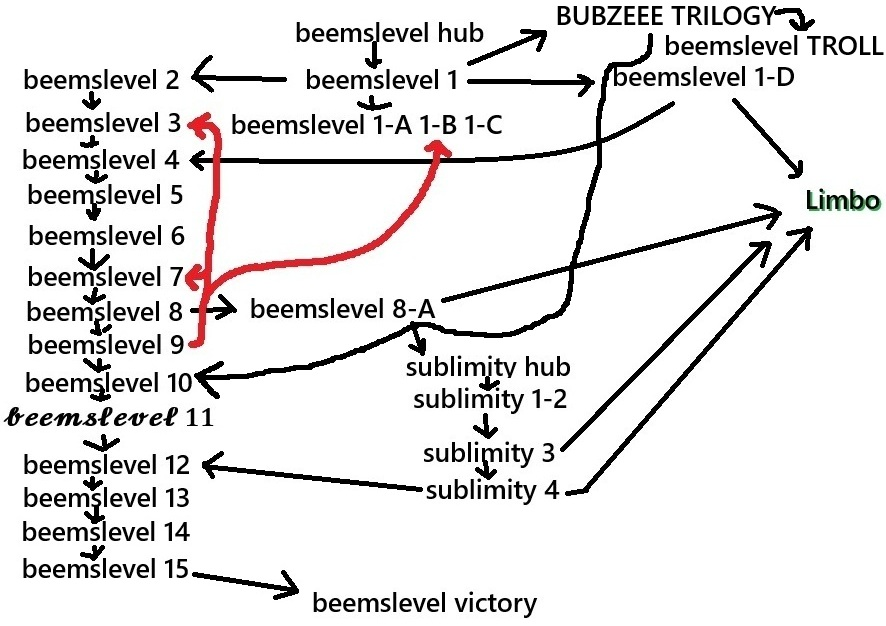
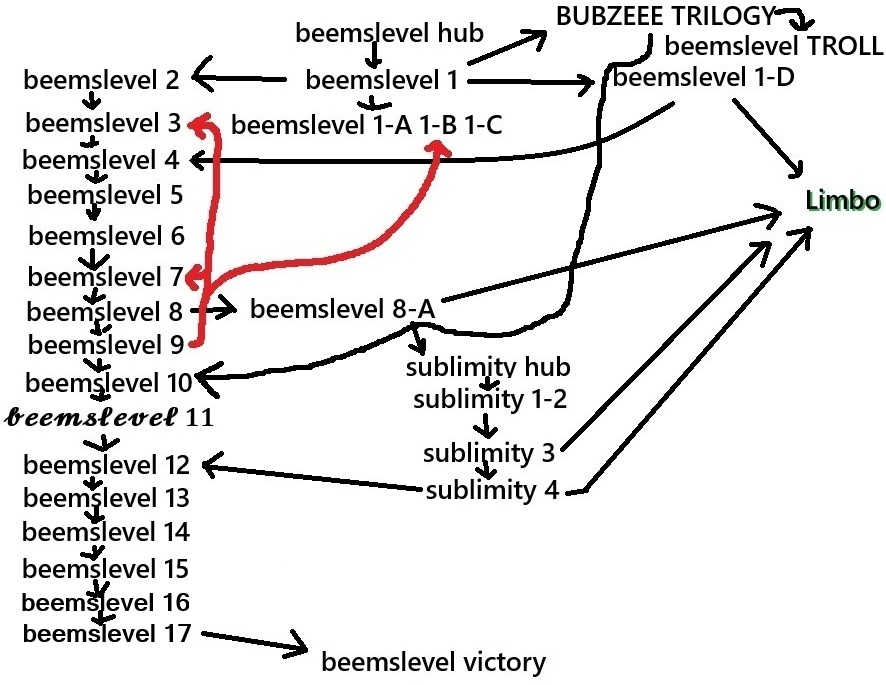
2 new levels and fixes

Changed region(s): [[0.0, 0.0, 1.0, 1.0]]

diff --git a/beemsrooms/Assets/beemslevel16.html b/beemsrooms/Assets/beemslevel16.html
@@ -3,12 +3,23 @@
 <head>
   <meta charset="UTF-8" />
   <meta name="viewport" content="width=device-width, initial-scale=1.0" />
-  <title>Shadow Switch</title>
+  <title>Beemslevel 16</title>
+  <link rel="icon" href="stonebrick.png">
   <style>
+    html {
+      background-image: url('stonebrick.png');
+      color: white;
+      font-family: "comic sans ms", cursive, sans-serif;
+    }
     canvas {
-      background: #222;
+      background-size: cover; /* Ensures the image covers the entire screen */
+      background-position: center; /* Centers the image */
+      background-repeat: no-repeat; /* Prevents the image from repeating */
+      background-image: url('catexplode.png'); /* Replace with your image path */
       display: block;
       margin: 0 auto;
+      box-shadow: 0px 0px 20px rgba(0, 0, 0, 1); /* Add shadow */
+      border-radius: 10px; /* Optional: Add rounded corners */
     }
     body {
       margin: 0;
@@ -17,33 +28,39 @@
   </style>
 </head>
 <body>
+  <button id="refreshButton" onclick="refresh()">Refresh</button>
+  <div>press spacebar for something cool idk</div>
+  <div>W,A,D to move</div>
+  <div>go to the top left of the screen to win</div>
+  <div></div>tip: switching characters makes the other character stay in the end</div>
 <canvas id="gameCanvas" width="800" height="600"></canvas>
 <script>
 const canvas = document.getElementById("gameCanvas");
 const ctx = canvas.getContext("2d");
 
 const keys = {};
-window.addEventListener("keydown", e => keys[e.key] = true);
-window.addEventListener("keyup", e => keys[e.key] = false);
+window.addEventListener("keydown", e => keys[e.key.toLowerCase()] = true);
+window.addEventListener("keyup", e => keys[e.key.toLowerCase()] = false);
 
 const gravity = 0.5;
-const groundY = 550;
+const groundY = 600;
 let activeWorld = "light"; // 'light' or 'shadow'
 
 class Player {
-  constructor(x, y, color) {
+  constructor(x, y, imageSrc) {
     this.x = x;
     this.y = y;
     this.width = 40;
     this.height = 40;
-    this.color = color;
+    this.image = new Image();
+    this.image.src = imageSrc; // Path to the player's image
     this.vx = 0;
     this.vy = 0;
     this.onGround = false;
   }
 
   update() {
-    // Movement
+    // Movement logic (same as before)
     if (keys["a"] || keys["ArrowLeft"]) this.vx = -5;
     else if (keys["d"] || keys["ArrowRight"]) this.vx = 5;
     else this.vx = 0;
@@ -66,11 +83,14 @@ class Player {
   }
 
   draw() {
-    ctx.fillStyle = this.color;
-    ctx.fillRect(this.x, this.y, this.width, this.height);
+    // Draw the image instead of a rectangle
+    ctx.drawImage(this.image, this.x, this.y, this.width, this.height);
   }
 }
+function refresh() {
+  location.reload(); // Refresh the page
 
+}
 class Platform {
   constructor(x, y, width, height, world) {
     this.x = x;
@@ -82,11 +102,24 @@ class Platform {
 
   draw() {
     if (this.world === activeWorld) {
-      ctx.fillStyle = this.world === 'light' ? '#ffff66' : '#6666ff';
-      ctx.fillRect(this.x, this.y, this.width, this.height);
-    }
-  }
+        // Set shadow properties
+        ctx.shadowColor = this.world === "light" ? "rgba(255, 255, 102, 0.5)" : "rgba(102, 102, 255, 0.5)";
+        ctx.shadowBlur = 15;
+        ctx.shadowOffsetX = 5;
+        ctx.shadowOffsetY = 5;
 
+        // Draw the platform
+        ctx.fillStyle = this.world === "light" ? "#ffff66" : "#6666ff";
+        ctx.fillRect(this.x, this.y, this.width, this.height);
+
+        // Reset shadow properties
+        ctx.shadowColor = "transparent";
+        ctx.shadowBlur = 0;
+        ctx.shadowOffsetX = 0;
+        ctx.shadowOffsetY = 0;
+    }
+}
+  
   checkCollision(player) {
     if (this.world !== activeWorld) return;
 
@@ -105,14 +138,14 @@ class Platform {
   }
 }
 
-const lightPlayer = new Player(100, 100, "#ffff66");
-const shadowPlayer = new Player(100, 100, "#6666ff");
+const player1 = new Player(0, 600, "beemscat.png"); // Replace with your image path
+const player2 = new Player(0, 600, "stupidcat.png"); // Replace with your image path
 
 const platforms = [];
 
-for (let i = 0; i < 20; i++) {
+for (let i = 0; i < 35; i++) {
   const x = Math.random() * 700 + 50;
-  const y = Math.random() * 400 + 100;
+  const y = Math.random() * 500 + 50;
   const width = Math.random() * 100 + 50;
   const height = 20;
   const world = i % 2 === 0 ? 'light' : 'shadow';
@@ -125,10 +158,10 @@ function gameLoop() {
   // Switch world
   if (keys[" "]) {
     activeWorld = activeWorld === "light" ? "shadow" : "light";
-    keys[" "] = false; // prevent constant flipping
+    keys[" "] = false; // Prevent constant flipping
   }
 
-  const currentPlayer = activeWorld === "light" ? lightPlayer : shadowPlayer;
+  const currentPlayer = activeWorld === "light" ? player1 : player2;
   currentPlayer.update();
 
   for (let plat of platforms) {
@@ -136,8 +169,16 @@ function gameLoop() {
     plat.draw();
   }
 
-  lightPlayer.draw();
-  shadowPlayer.draw();
+  // Draw only the active player
+  currentPlayer.draw();
+
+  // Check if both players are in the top-left corner
+  if (player1.x < 0 && player1.y < 0 && player2.x < 0 && player2.y < 0) {
+    alert("Start spamming the up arrow key");
+    player1.y = 200;
+    player2.y = 200;
+    window.location.href = "beemslevel17.html"; // Teleport to the next level
+  }
 
   requestAnimationFrame(gameLoop);
 }

diff --git a/beemsrooms/Assets/beemslevel17.html b/beemsrooms/Assets/beemslevel17.html
@@ -1,0 +1,153 @@
+<!DOCTYPE html>
+<html lang="en">
+<head>
+    <meta charset="UTF-8">
+    <meta name="viewport" content="width=device-width, initial-scale=1.0">
+    <title>Beemslevel 17</title>
+    <style>
+        body {
+            margin: 0;
+            overflow: hidden;
+        }
+        canvas {
+            background: black;
+            background-image: url('coolbackground.jpg'); /* Replace with your image path */
+            background-size: cover;
+        }
+        #gameOver {
+            position: absolute;
+            top: 50%;
+            left: 50%;
+            transform: translate(-50%, -50%);
+            color: white;
+            font-size: 2rem;
+            display: none;
+        }
+    </style>
+</head>
+<body>
+    <canvas id="gameCanvas"></canvas>
+    <div id="gameOver">Game Over! Refresh to try again.</div>
+    <script>
+        let lastTime = 0;
+        const fps = 60;
+        const interval = 1000 / fps;
+        const canvas = document.getElementById('gameCanvas');
+        const ctx = canvas.getContext('2d');
+        canvas.width = window.innerWidth;
+        canvas.height = window.innerHeight;
+        const player = { x: 50, y: canvas.height / 2, size: 10, speed: 0, gravity: 1.2, lift: -2 };
+        const obstacles = [];
+        const obstacleWidth = 20;
+        const gapHeight = 100;
+        let gameOver = false;
+        let isHoldingUp = false;
+    
+        let timer = 15;
+        let timerInterval;
+    
+        function createObstacle() {
+            const gapY = Math.random() * (canvas.height - gapHeight);
+            obstacles.push({ x: canvas.width, gapY });
+        }
+    
+        function updateObstacles() {
+            for (let i = obstacles.length - 1; i >= 0; i--) {
+                obstacles[i].x -= 15;
+                if (obstacles[i].x + obstacleWidth < 0) {
+                    obstacles.splice(i, 1);
+                }
+            }
+        }
+    
+        function drawObstacles() {
+            ctx.fillStyle = 'red';
+            for (const obs of obstacles) {
+                ctx.fillRect(obs.x, 0, obstacleWidth, obs.gapY);
+                ctx.fillRect(obs.x, obs.gapY + gapHeight, obstacleWidth, canvas.height - obs.gapY - gapHeight);
+            }
+        }
+    
+        function checkCollision() {
+            for (const obs of obstacles) {
+                if (
+                    player.x < obs.x + obstacleWidth &&
+                    player.x + player.size > obs.x &&
+                    (player.y < obs.gapY || player.y + player.size > obs.gapY + gapHeight)
+                ) {
+                    return true;
+                }
+            }
+            return player.y < 0 || player.y + player.size > canvas.height;
+        }
+    
+        function drawPlayer() {
+            ctx.fillStyle = 'white';
+            ctx.fillRect(player.x, player.y, player.size, player.size);
+        }
+    
+        // Draw the timer at the top center
+        function drawTimer() {
+            ctx.fillStyle = 'white';
+            ctx.font = '20px Arial';
+            ctx.textAlign = 'center';
+            ctx.fillText(`Time Left: ${timer}`, canvas.width / 2, 30);
+        }
+    
+        // Start the timer countdown
+        function startTimer() {
+            timerInterval = setInterval(() => {
+                if (timer > 0) {
+                    timer--;
+                } else {
+                    clearInterval(timerInterval);
+                    window.location.href = "beemslevelVictory.html"; // Teleport to level 18
+                }
+            }, 1000);
+        }
+    
+        function gameLoop(currentTime) {
+            if (currentTime - lastTime >= interval) {
+                lastTime = currentTime;
+                if (gameOver) return;
+    
+                ctx.clearRect(0, 0, canvas.width, canvas.height);
+    
+                // Apply gravity and update player position
+                if (isHoldingUp) {
+                    player.speed += player.lift; // Accelerate upwards while holding the key
+                } else {
+                    player.speed += player.gravity; // Apply gravity when not holding the key
+                }
+                player.y += player.speed;
+    
+                updateObstacles();
+                drawObstacles();
+                drawPlayer();
+                drawTimer(); // Draw the timer
+    
+                if (checkCollision()) {
+                    window.location.href = "../beemslevel hub.html"; // Teleport to level hub
+                }
+            }
+            requestAnimationFrame(gameLoop);
+        }
+    
+        document.addEventListener('keydown', (e) => {
+            if (e.key === 'ArrowUp') {
+                isHoldingUp = true; // Start accelerating upwards
+            }
+        });
+    
+        document.addEventListener('keyup', (e) => {
+            if (e.key === 'ArrowUp') {
+                isHoldingUp = false; // Stop accelerating upwards
+            }
+        });
+    
+        setInterval(createObstacle, 2000);
+        startTimer(); // Start the timer
+        gameLoop();
+    </script>
+</body>
+</html>

diff --git a/beemsrooms/Assets/beemslevel1-B.html b/beemsrooms/Assets/beemslevel1-B.html
@@ -203,17 +203,19 @@
 
         // Keydown and keyup listeners for WASD movement
         document.addEventListener("keydown", function(event) {
-            if (event.key === "w") keys.w = true;
-            if (event.key === "a") keys.a = true;
-            if (event.key === "s") keys.s = true;
-            if (event.key === "d") keys.d = true;
+            const key = event.key.toLowerCase(); // Normalize to lowercase
+            if (key === "w") keys.w = true;
+            if (key === "a") keys.a = true;
+            if (key === "s") keys.s = true;
+            if (key === "d") keys.d = true;
         });
-
+        
         document.addEventListener("keyup", function(event) {
-            if (event.key === "w") keys.w = false;
-            if (event.key === "a") keys.a = false;
-            if (event.key === "s") keys.s = false;
-            if (event.key === "d") keys.d = false;
+            const key = event.key.toLowerCase(); // Normalize to lowercase
+            if (key === "w") keys.w = false;
+            if (key === "a") keys.a = false;
+            if (key === "s") keys.s = false;
+            if (key === "d") keys.d = false;
         });
 
         // Start the game loop when the player image is loaded

diff --git a/beemsrooms/Assets/beemslevel15.html b/beemsrooms/Assets/beemslevel15.html
@@ -91,7 +91,7 @@
                 if (userAnswer.trim() === answer.trim()) correct++;
             });
 
-            window.location.href = correct === answers.length ? "beemslevelVictory.html" : "beemslevel11.html";
+            window.location.href = correct === answers.length ? "beemslevel16.html" : "beemslevel11.html";
         }
 
         function moveQuestions() {

diff --git a/beemsrooms/Assets/beemstest.html b/beemsrooms/Assets/beemstest.html
@@ -1,0 +1,2 @@
+<title>im in sauna</title>
+<h1>i am in sauna</h1><h1>i am in sauna</h1><h1>i am in sauna</h1><h1>i am in sauna</h1><h1>i am in sauna</h1><h1>i am in sauna</h1><h1>i am in sauna</h1><h1>i am in sauna</h1><h1>i am in sauna</h1>
